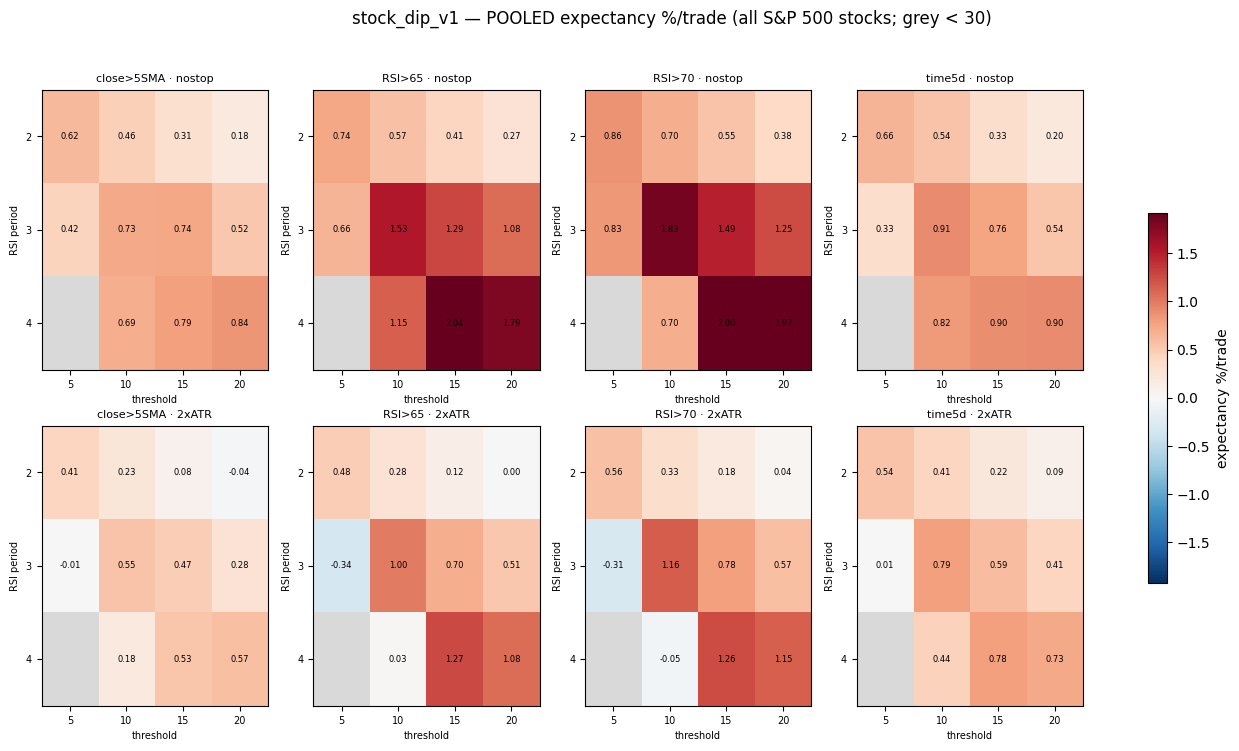
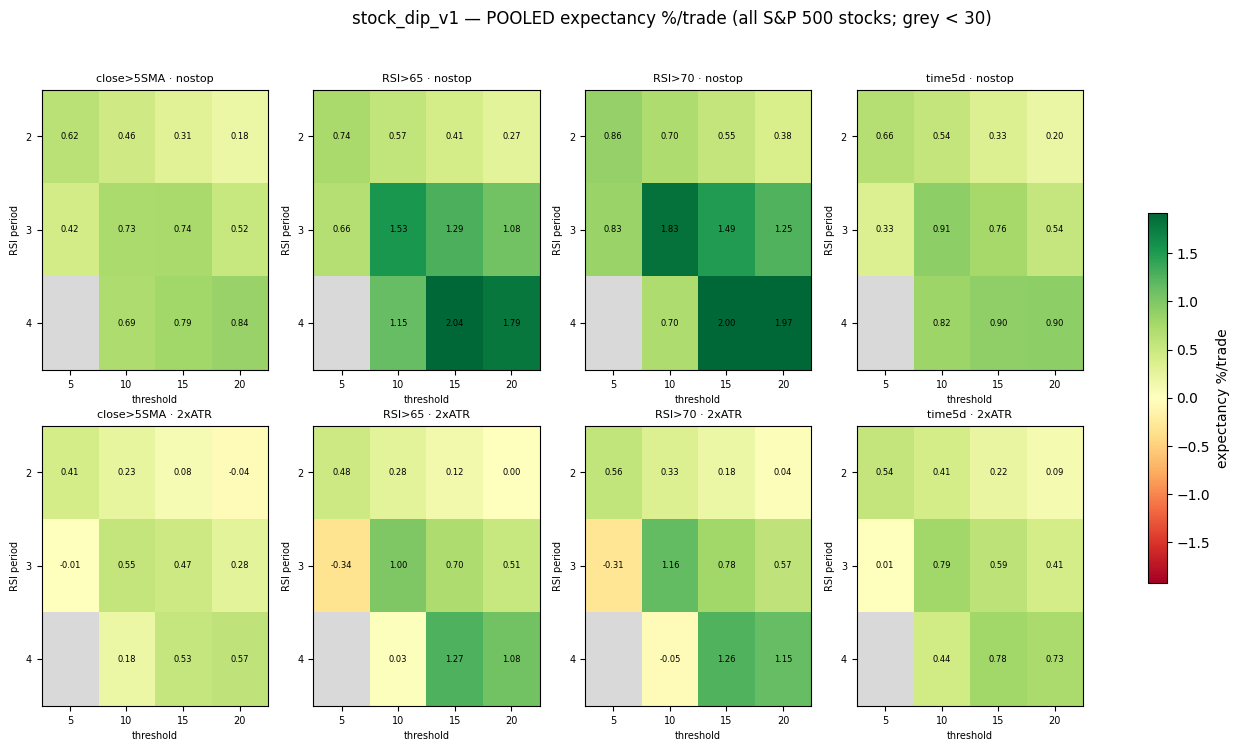
Experiment 02: republish pooled-expectancy heatmap with current palette
The published stock_dip_v1_pooled_expectancy.png predated source commit
7ac7eb6 ("viz: use RdYlGn for research heatmaps -- red=loss, green=profit")
and still rendered with the old inverted scheme (profit = red). Republished
from the current engine (profit = green), matching Papers 01 and 03.

Checked the caption before assuming it needed editing: it already reads
"red is a loss ... nearly all visible cells are green," which describes the
NEW image, not the one that was published. The caption was correct all
along; the old published PNG was the thing that contradicted it. No text
change needed.

Sanity-checked the other three published figures (connors_dip_v1_AGGREGATE,
connors_dip_v1_OOS_equity, stock_dip_v1_OOS_equity) against their captions
for the same class of risk. All three hold up -- including a claim that
looked contradictory at first read (body text: "2022 barely registered";
caption: "drawdowns particularly visible in 2020") but checks out once
noticed those are two different years, both accurate against the image.

DATA.md documents the change: which commit, and that the underlying cell
values are pixel-identical -- only the colour mapping differs.

diff --git a/experiments/02-quality-stock-dip-buying/data/DATA.md b/experiments/02-quality-stock-dip-buying/data/DATA.md
@@ -5,6 +5,21 @@ Everything behind the numbers in the paper, except raw vendor price history (see
 
 ---
 
+## Note on `stock_dip_v1_pooled_expectancy.png`
+
+This figure was republished after source commit `7ac7eb6` ("viz: use RdYlGn for research
+heatmaps — red = loss, green = profit"), which changed the heatmap colour scale project-wide
+from the matplotlib default (`RdBu_r`, where profit renders red) to the finance-convention
+scale used throughout this series (`RdYlGn`, where profit renders green). The figure originally
+published here predated that commit.
+
+**Only the colour mapping changed.** Every annotated cell value in the corrected figure is
+pixel-identical to the original — verified by decoding both PNGs and diffing the underlying
+grid of numbers (0.62, 1.53, 2.04, … all 64 cells, exact) — so no result in this experiment was
+ever affected. The figure is now consistent with the colour convention used in Papers 01 and 03.
+
+---
+
 ## Files
 
 | File | Contents |
